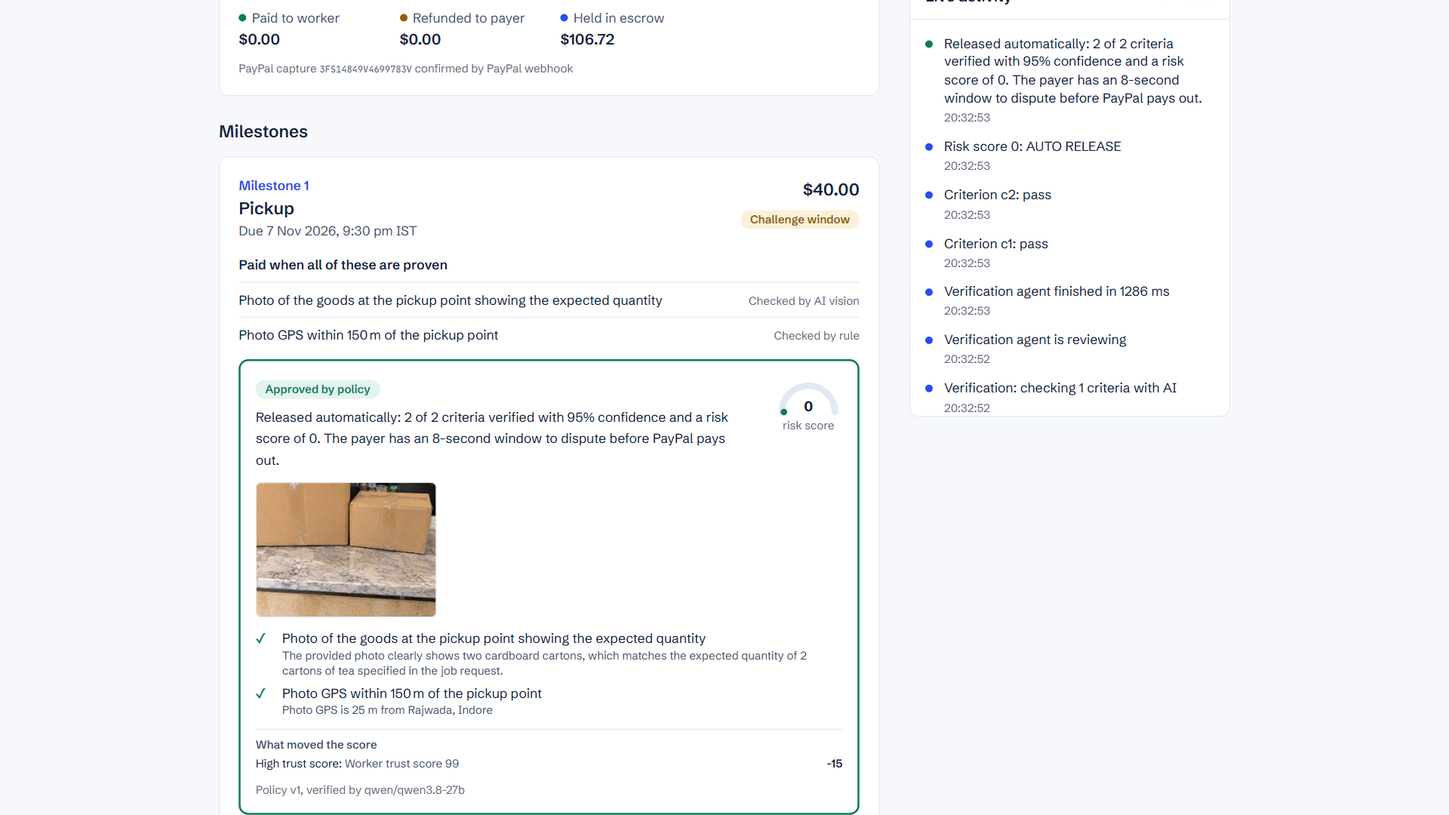
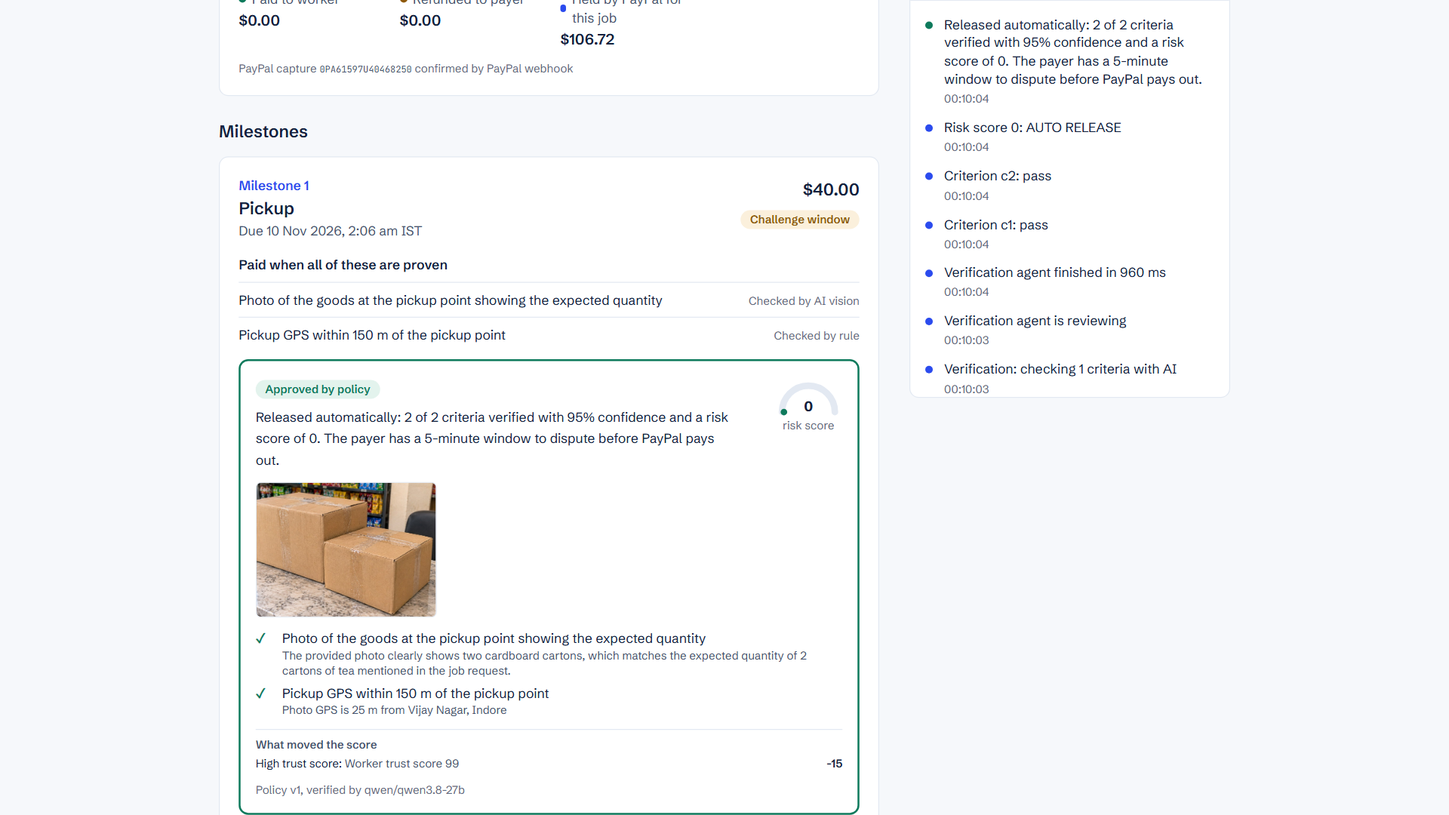
Final judge pass, phases 3-5: live screenshots retaken, video rebuilt at 2:42 (cold open on the denial, four moments with zoom holds, sandbox evidence beat, Kokoro voice), YouTube chapters, checklist and gallery updated; JUDGE_REVIEW_2 (8.1/10); review-queue Decided column widened; opt-in e2e server

diff --git a/playwright.config.ts b/playwright.config.ts
@@ -26,7 +26,7 @@ export default defineConfig({
     command: `pnpm build && pnpm db:template && pnpm build:standalone && cd .next/standalone && node --max-old-space-size=320 --liftoff-only db-boot.cjs boot && node --max-old-space-size=320 --liftoff-only server.js`,
     url: `http://localhost:${PORT}/api/health`,
     timeout: 600_000, // build + template + standalone can exceed 5 minutes on a slow machine
-    reuseExistingServer: false,
+    reuseExistingServer: Boolean(process.env.E2E_REUSE_SERVER), // opt-in: a server started by hand with the same env
     env: {
       APP_MODE: "MOCK",
       PROCUREBOT_API_KEY: process.env.PROCUREBOT_API_KEY ?? randomBytes(24).toString("hex"),

diff --git a/src/app/admin/risk/page.tsx b/src/app/admin/risk/page.tsx
@@ -15,7 +15,7 @@ const COLUMNS: ColumnSpec[] = [
   { field: "amountMinor", header: "Amount", kind: "money", width: 88 },
   { field: "worker", header: "Worker", width: 84 },
   { field: "status", header: "Status", kind: "status", width: 120, tones: { RELEASED: "good", RESOLVED: "good", NEEDS_REVIEW: "warn", HELD: "bad", REJECTED: "bad" } },
-  { field: "at", header: "Decided", kind: "datetime", width: 120 },
+  { field: "at", header: "Decided", kind: "datetime", width: 136 },
   { field: "policyVersion", header: "Policy", kind: "number", width: 85, hide: true },
 ];
 

diff --git a/scripts/edit-video.py b/scripts/edit-video.py
@@ -41,16 +41,17 @@ t = lambda src, k: src[k]["t"]
 vo = {i["id"]: i for i in json.load(open(f"{V}/vo/durations.json"))}
 
 # Beat lengths in seconds: the voiceover plus room to read the key card. Total about 2:43.
-LENGTH = {"cold": 8, "title": 9, "mandate": 13, "denied": 19, "fund": 15, "proof": 16, "fraud": 15, "dispute": 24, "evidence": 13, "receipt": 19, "close": 12}
+LENGTH = {"cold": 8, "title": 9, "mandate": 13, "denied": 16, "fund": 15, "proof": 16, "fraud": 15, "dispute": 26, "evidence": 13, "receipt": 19, "close": 12}
 # Each screen beat: plain segments (start, end, raw file), then a zoom hold on a marked card (marks, name, seconds).
 SCREEN = {
-    "mandate": ([(t(M, "mandates"), t(M, "agent-out-of-scope"), 1)], None),
-    "denied": ([(t(M, "agent-out-of-scope"), t(M, "denied"), 1)], (M, "denied", 7)),
+    "mandate": ([(t(M, "landing") + 2, t(M, "agent-out-of-scope"), 1)], (M, "mandates", 0)),
+    "denied": ([(t(M, "agent-out-of-scope") - 1, t(M, "denied") + 3.5, 1)], (M, "denied", 7)),
     "fund": ([(t(M, "agent-in-scope"), t(M, "agent-allowed") + 2, 1), (t(M, "job-created"), t(M, "fund-clicked") + 1.5, 1), (t(M, "paypal-checkout"), t(M, "paypal-review") + 2, 1), (t(M, "paypal-returned"), t(M, "paypal-returned") + 2, 1), (t(M, "funded") - 1, t(M, "funded") + 3, 1)], None),
     "proof": ([(t(M, "proof-photo") - 1.5, t(M, "submitted") + 2, 1)], (M, "decision-card", 5)),
     "fraud": ([(t(N, "reused-photo") - 2, t(N, "reused-photo") + 1, 2), (t(N, "risk-queue"), t(N, "risk-queue") + 4, 2)], (N, "held", 5)),
-    "dispute": ([(t(M, "dispute-opened") - 4, t(M, "evidence-added") + 1, 1), (t(M, "settled") - 1, t(M, "settled") + 3, 1)], (M, "liability-finding", 6)),
-    "evidence": ([], (M, "evidence", 13)),
+    "dispute": ([(t(M, "dispute-opened") - 4, t(M, "evidence-added") + 1, 1), (t(M, "settled") - 1, t(M, "settled") + 3, 1)], ({"_raw": 1, "lf": {"t": t(M, "settled") - 2.2, "box": {"x": 284, "y": 112, "width": 596, "height": 152}}}, "lf", 6)),  # the finding, scrolled into view, boxed by hand
+    # The permanent showcase receipt (a real sandbox job): its PayPal order, capture and payout ids, boxed by hand.
+    "evidence": ([], ({"ids": {"t": t(N, "showcase") + 2.0, "box": {"x": 384, "y": 240, "width": 768, "height": 156}}}, "ids", 13)),
     "receipt": ([(t(N, "showcase"), t(N, "showcase-verified") + 3, 2), (t(N, "verify-page"), t(N, "tamper-failed"), 2)], (N, "tamper-failed", 6)),
 }
 # In the fraud and dispute beats the zoom hold sits between the plain segments, where it happens on screen.
@@ -76,7 +77,7 @@ def zoom_hold(name, marks, key, seconds, n, overlay=None):
         z1 = max(1.0, min(2.2, W / (bw + 2 * pad), H / (bh + 2 * pad)))
         cx, cy = bx + bw / 2, by + bh / 2
     else:
-        z1, cx, cy = 1.0, W / 2, H / 2
+        z1, cx, cy = 1.12, W / 2, H / 2
     frames = int(seconds * FPS)
     ramp = 1.6 * FPS
     S = 2  # zoompan works on a 2x upscale to avoid jitter
@@ -87,7 +88,7 @@ def zoom_hold(name, marks, key, seconds, n, overlay=None):
     vf = f"scale={W * S}:{H * S},zoompan=z='{z}':x='{x}':y='{y}':d={frames}:s={W}x{H}:fps={FPS}"
     if overlay:
         o = overlay.replace(":", "\\:").replace("'", "\u2019")
-        vf += f",drawbox=x=0:y=ih-230:w=iw:h=150:color={BG}@0.88:t=fill,drawtext=fontfile='{FONTB}':text='{o}':fontcolor=white:fontsize=60:x=(w-text_w)/2:y=h-185"
+        vf += f",drawbox=x=0:y=50:w=iw:h=150:color={BG}@0.9:t=fill,drawtext=fontfile='{FONTB}':text='{o}':fontcolor=white:fontsize=60:x=(w-text_w)/2:y=95"
     p = f"{V}/hold-{name}.mp4"
     run(["-loop", "1", "-i", frame, "-vf", vf, "-frames:v", str(frames), "-c:v", "libx264", "-preset", "veryfast", "-crf", "18", "-pix_fmt", "yuv420p", p])
     return p
@@ -111,14 +112,17 @@ def screen_beat(name, seconds, audio):
     parts = []
     if plain:
         total = sum(dur(p) for p in plain)
-        factor = (seconds - hold_s) / total  # under 1 speeds up waits; over 1 slows gently
-        print(f"{name}: {total:.1f}s of screen fitted to {seconds - hold_s:.1f}s (x{1 / factor:.2f}), hold {hold_s}s")
+        factor = (seconds - hold_s) / total  # under 1 speeds up waits
+        if factor > 1:  # never slow footage down: the spare time goes to the hold on the key card
+            hold_s += seconds - hold_s - total
+            factor = 1.0
+        print(f"{name}: {total:.1f}s of screen at x{1 / factor:.2f}, hold {hold_s:.1f}s")
         for i, p in enumerate(plain):
             sped = f"{V}/sped-{name}-{i}.mp4"
             run(["-i", p, "-vf", f"setpts={factor:.4f}*PTS,fps={FPS}", "-an", "-c:v", "libx264", "-preset", "veryfast", "-crf", "18", "-pix_fmt", "yuv420p", sped])
             parts.append(sped)
     if hold:
-        h = zoom_hold(name, hold[0], hold[1], hold_s, 1 if hold[0] is M else 2)
+        h = zoom_hold(name, hold[0], hold[1], hold_s, 1 if (hold[0] is M or hold[0].get("_raw") == 1) else 2)
         parts.insert(HOLD_AT.get(name, len(parts)), h)
     return with_audio(name, concat(name, parts), seconds, audio)
 
@@ -143,6 +147,10 @@ def card(name, lines, seconds, audio):
 beats, srt, clock = [], [], 0.0
 def add(path, seconds, caption):
     global clock
+    if caption is None:  # the beat shows its words on screen already
+        beats.append(path)
+        clock += seconds
+        return
     words = caption.split()
     chunks, cur = [], []
     for w in words:
@@ -171,7 +179,7 @@ for name in ORDER:
     audio = f"{V}/vo/{name}.wav"
     if name == "cold":
         h = zoom_hold("cold", M, "denied", seconds, 1, overlay="When an AI agent spends money, who is accountable?")
-        add(with_audio("cold", h, seconds, audio), seconds, item["text"])
+        add(with_audio("cold", h, seconds, audio), seconds, None)
     elif name == "title":
         add(card("title", [("SettleAI", 120, True, WHITE), ("", 0, False, WHITE), ("Agents will hire people.", 58, False, WHITE), ("SettleAI makes sure the work was done before PayPal pays.", 46, False, SOFT)], seconds, audio), seconds, item["text"])
     elif name == "close":

diff --git a/docs/video/SCRIPT.md b/docs/video/SCRIPT.md
@@ -1,6 +1,6 @@
 # Demo video script
 
-Final cut: `docs/video/settleai-demo.mp4`, about 2:43. Built by `scripts/record-demo.mjs` (live site, 1920x1080, real PayPal
+Final cut: `docs/video/settleai-demo.mp4`, 2:42 (162.0 s by ffprobe). Built by `scripts/record-demo.mjs` (live site, 1920x1080, real PayPal
 sandbox and real models), `scripts/tts-voiceover.py` (voice), `scripts/edit-video.py` (cuts, zooms, cards) and
 `scripts/burn-captions.py` (captions, length check, thumbnail). English, no music, burned-in captions. The only third-party
 screens are the PayPal sandbox checkout (the sponsor).
@@ -18,14 +18,14 @@ card and is not spoken.
 | 0:00 | Cold open (8 s) | Zoom onto the red "Denied before any money moved" card; caption bar: "When an AI agent spends money, who is accountable?" | When an AI agent spends money, who is accountable? |
 | 0:08 | Title (9 s) | Card: SettleAI. Agents will hire people. SettleAI makes sure the work was done before PayPal pays. | This is SettleAI. It makes sure the work was done before PayPal pays, and it says who is liable when it wasn't. |
 | 0:17 | Setup (13 s) | Payer's Agent mandates page: the signed ProcureBot mandate and its budget; PayPal sandbox badge in view | Ravi runs a small shop. His AI agent can hire couriers for him, but only within limits he signs: delivery jobs, up to a hundred and fifty dollars each. |
-| 0:30 | **Moment 1** (19 s) | Out of scope, Send as agent; zoom hold on the denial card with its reason codes; nothing created | Now the agent tries to book a five hundred dollar repair job. That's outside the limits. The check is plain code, not a prompt. It says no, and why, before any money moves. |
-| 0:49 | Fund (15 s) | In-scope hire, Fund with PayPal, sandbox checkout, back to the job: funded, held by PayPal for this job | Inside the limits, the agent books a delivery. Ravi pays through PayPal checkout, in the sandbox. PayPal holds the money for this job until the work is proven. |
-| 1:04 | Proof (16 s) | Worker submits a demo image; live checks; zoom hold on the Decision Card (approved by policy, model named) | The courier sends a photo. Simple rules check the place, the time, and whether the photo was used before. Then an AI model checks each requirement, and the payment is approved. |
-| 1:20 | **Moment 2** (15 s) | Second job, the same photo reused; zoom hold on the held decision ("already submitted for another job"); the AG Grid review queue | On a second job, someone sends the same photo again. It's caught. Nothing is paid, and the job waits for a person in the review queue. |
-| 1:35 | **Moment 3** (24 s) | First job: payer disputes in the 10-minute window and adds a damage image; zoom hold on the liability finding with its plain-English clause; settled through PayPal | Back on the first job, Ravi says one carton arrived damaged. An AI arbiter weighs both sides and writes a liability finding. It cites the exact clause Ravi signed. Both sides accept, and PayPal pays out and refunds. |
-| 1:59 | Sandbox evidence (13 s) | Zoom hold on the job's public receipt: PayPal order, capture, payout and refund ids (masked) | These are real PayPal sandbox transactions. The capture, the payout, and the refund, each with its own PayPal ID. |
-| 2:12 | **Moment 4** (19 s) | Showcase receipt verifies in the browser; /verify with a one-character change; zoom hold on "Receipt failed verification" and the broken link | Every step is signed into a receipt. Anyone can check it in the browser, without trusting us. Change a single character, and the check fails, and shows what was changed. |
-| 2:31 | End card (12 s) | SettleAI; Try it: settleai-07ue.onrender.com; Code: github.com/Mokshitsharma/settleai; Built for the PayPal AI Hackathon 2026; one small line: sandbox, AP2-inspired (not official or endorsed), AI-generated demo images | AI agents are about to spend real money. SettleAI makes them accountable. Try it yourself at the link on screen. |
+| 0:30 | **Moment 1** (16 s) | Out of scope, Send as agent; zoom hold on the denial card with its reason codes; nothing created | Now the agent tries to book a five hundred dollar repair job. That's outside the limits. The check is plain code, not a prompt. It says no, and why, before any money moves. |
+| 0:46 | Fund (15 s) | In-scope hire, Fund with PayPal, sandbox checkout, back to the job: funded, held by PayPal for this job | Inside the limits, the agent books a delivery. Ravi pays through PayPal checkout, in the sandbox. PayPal holds the money for this job until the work is proven. |
+| 1:01 | Proof (16 s) | Worker submits a demo image; live checks; zoom hold on the Decision Card (approved by policy, model named) | The courier sends a photo. Simple rules check the place, the time, and whether the photo was used before. Then an AI model checks each requirement, and the payment is approved. |
+| 1:17 | **Moment 2** (15 s) | Second job, the same photo reused; zoom hold on the held decision ("already submitted for another job"); the AG Grid review queue | On a second job, someone sends the same photo again. It's caught. Nothing is paid, and the job waits for a person in the review queue. |
+| 1:32 | **Moment 3** (26 s) | First job: payer disputes in the 10-minute window and adds a damage image; zoom hold on the liability finding with its plain-English clause; settled through PayPal | Back on the first job, Ravi says one carton arrived damaged. An AI arbiter weighs both sides and writes a liability finding. It cites the exact clause Ravi signed. Both sides accept, and PayPal settles it. |
+| 1:58 | Sandbox evidence (13 s) | Zoom hold on the permanent showcase receipt (a real sandbox job): PayPal order, capture and two payout ids (masked) | This is a real job on the PayPal sandbox. The order, the capture, and both payouts, each with its own PayPal ID. |
+| 2:11 | **Moment 4** (19 s) | Showcase receipt verifies in the browser; /verify with a one-character change; zoom hold on "Receipt failed verification" and the broken link | Every step is signed into a receipt. Anyone can check it in the browser, without trusting us. Change a single character, and the check fails, and shows what was changed. |
+| 2:30 | End card (12 s) | SettleAI; Try it: settleai-07ue.onrender.com; Code: github.com/Mokshitsharma/settleai; Built for the PayPal AI Hackathon 2026; one small line: sandbox, AP2-inspired (not official or endorsed), AI-generated demo images | AI agents are about to spend real money. SettleAI makes them accountable. Try it yourself at the link on screen. |
 
 The liability beat never promises a particular split: the Arbiter proposes one, code checks that it adds up, and both sides
 accept or an admin decides.

diff --git a/docs/JUDGE_REVIEW_2.md b/docs/JUDGE_REVIEW_2.md
@@ -1,0 +1,69 @@
+# SettleAI: mock judge review, round 2
+
+Reviewer role: the same strict PayPal AI Hackathon 2026 judge as in `JUDGE_REVIEW.md`, skimming for 5 to 10 minutes.
+Date: 10 Nov 2026. Compared with round 1 (7 Nov, 7.6 / 10).
+
+**What I looked at:** the live site after the 10 Nov deploy (Playwright at 1920x1080: landing, agent denial, a full funded
+job on the PayPal sandbox with real models, a dispute inside the 10-minute window, the reused-photo hold, every AG Grid
+view, the showcase receipt and a tampered receipt), the rebuilt video (contact sheets every 3 s), README, DEVPOST.md,
+the five Devpost images and the impact pack.
+
+## Overall: 8.1 / 10 (was 7.6)
+
+The packaging now matches the engineering. The video opens on the denial and gives each moment time to land. The Devpost
+page no longer contradicts itself. The AG Grid screens look like a deliberate use of the product. What still costs points:
+a synthetic voice, a dispute path that takes a judge about four minutes and a PayPal sandbox login, and an ops console that
+is denser than a consumer demo.
+
+## Round 1 items
+
+| # | Round 1 item | Now |
+|---|---|---|
+| 1 | Devpost "real photos" contradiction | Fixed: Challenges says the model flagged early generated images, we used more realistic AI-generated ones, disclosed them, and kept rule checks as ground truth. No conflicting claim in README, Devpost, UI, code comments or video |
+| 2 | Broken AG Grid columns | Fixed and deployed: every grid measured, no collapsed or clipped columns; `Decided` widened again for a 2-digit hour; Devpost lists the AG Grid features used |
+| 3 | 75 s cold start | Fixed for judging: an external ping every 10 minutes through 16 Dec; README and Devpost say so |
+| 4 | Unreachable dispute window | Fixed: 10-minute window on live; landing card 3, README and Devpost walk the judge through it, including the one-minute wait the fast-proof rule needs |
+| 5 | Rushed video, disclaimer ending | Fixed: 2:42, cold open on the denial card, 4 moments held 5 to 13 s with zooms, one sandbox-evidence beat, ends on the product and URLs; disclaimer is one small line |
+| 6 | Flat TTS voice | Improved: Kokoro-82M replaces Piper LJ Speech; still synthetic (script in `voiceover.txt` for a human re-record) |
+| 7 | No quantified impact | Fixed: three cited figures and a named first user; interview placeholders removed |
+| 8 | Jargon on screen | Fixed: plain-English clause first, raw clause under Details; "shared by both sides"; "(1 check)"; model ids in a tooltip; "Held by PayPal for this job" |
+| 9 | README top | Fixed: one-liner, hero image, "Try it in 60 seconds", one evidence table, the n = 2 injection figure in a footnote |
+| 10 | Agent Toolkit gap | Fixed: "Why the agent never holds the PayPal write tools", with the Agent Toolkit for Invoicing named as next |
+| 11 | Screenshot 2 crop | Fixed: request plus the full denial card, no expired mandate |
+
+## Criteria scores
+
+| Criterion | Round 1 | Round 2 | One-line reason |
+|---|---|---|---|
+| Technological Implementation | 9 | **9** | Unchanged and still the strongest part: real Orders, Payouts, webhooks, ledger, guard at four gates, verifiable receipts, MCP, 500+ tests |
+| Design | 7 | **8** | Grid, liability card and wording are clean; the admin console is still dense, and the ledger's internal account is still called "Escrow" |
+| Potential Impact | 6.5 | **7** | Cited numbers and a named first user; no user interviews or pilot, which the pack now says plainly |
+| Innovation | 8 | **8** | Unchanged: conditional settlement plus liability findings that cite a signed clause |
+| Presentation | 6.5 | **8** | The video is now paced for a skimming judge and starts on the wow; the voice is still synthetic |
+
+## Prize fit
+
+| Prize | Round 1 | Round 2 | Why |
+|---|---|---|---|
+| Best Use of Agentic Commerce | 8.5 | **9** | The cold open is exactly this prize's question, answered in code |
+| Best Use of PayPal + AI | 7.5 | **8** | The write-tools rationale turns the missing Agent Toolkit into a design choice |
+| Most Impactful | 6 | **7** | Quantified, but no real users yet |
+| Most Creative | 6.5 | **7** | The receipt tamper moment and the cited liability finding are memorable |
+| Best Demo Delivery | 5.5 | **7.5** | Warm server, reachable dispute, a 2:42 cut; the synthetic voice and the long dispute path hold it back |
+| AG Grid (sponsor, the one we enter) | 5 | **7.5** | A clean, filterable review queue and ledger in the hero images, with the features listed |
+
+## Remaining risks
+
+1. **The dispute path is long for a judge:** fund in the sandbox (needs the buyer login from the private testing field),
+   accept, wait a minute, submit, then dispute. Judges who skip it still see the finding in the video and on the showcase
+   receipt.
+2. **Live dependencies during 1 to 15 Dec:** the Groq free tier (rate limits fall back to human review, which is safe but
+   less impressive), the Render free plan's 512 MB, and the cron ping. Check health weekly.
+3. **Synthetic voice** may still cost a little on Best Demo Delivery; a human re-record from `voiceover.txt` is the only
+   remaining video upgrade.
+4. **Two "escrow" words remain on purpose:** the ledger's internal account name and the Guard's denial messages ("Funds stay
+   in escrow"), left because the Guard was out of scope for this pass. Devpost explains the ledgered hold.
+5. **Submission mechanics:** the repo must be public, the video public on YouTube, and only the AG Grid sponsor prize
+   selected. Run gitleaks before making the repo public.
+6. **Screenshot 5** was taken before the `Decided` width fix (the "am" of one row clips by a few pixels); retake it after
+   the next deploy.

diff --git a/docs/video/CHECKLIST.md b/docs/video/CHECKLIST.md
@@ -1,26 +1,21 @@
 # Video checklist
 
-Checked on 7 Nov 2026 against `docs/video/settleai-demo.mp4`.
+Checked on 10 Nov 2026 against `docs/video/settleai-demo.mp4` (contact sheets every 3 s, plus key frames).
 
 | Rule | Result |
 |---|---|
-| Strictly under 3:00 (target under 2:50) | 2:11.5 by ffprobe (131.53 s); the editor fails the build at 2:58 or more |
-| Format | H.264, 1920x1080, 30 fps, AAC audio |
-| English throughout | Yes: voiceover, captions, cards |
-| Burned-in captions | Yes (drawtext); `captions.srt` also provided for upload |
-| No music | None; see `LICENSES.md` |
-| Title card and end card | Title: "SettleAI / Agents will hire people. Who answers for it?" End: live URL, repo URL, "Built for the PayPal AI Hackathon 2026" |
-| No third-party logos or trademarks | Frames checked every 3 s: only SettleAI and the PayPal sandbox checkout (sponsor); demo images have no logos, QR codes or readable brands |
-| No secrets or env files | No terminal, `.env.local`, keys or tokens on screen |
-| No real personal data | Seeded demo names (Ravi Traders, Asha K., Meera) and sandbox accounts only; the sandbox checkout greets its test buyer as "John" |
-| Recorded against the live site, LIVE badge visible | Yes: "PayPal sandbox" badge and model names in the header |
-| Real PayPal sandbox evidence | Real order, capture and payout; capture confirmed by PayPal webhook; settlement through PayPal |
-| Real AI output, not the stub | Decision Card "verified by qwen/qwen3.8-27b"; Arbiter proposal and liability finding from the real model |
-| Moment 1 | Out-of-mandate request denied with reason codes, nothing created |
-| Moment 2 | The first job's photo reused on a second job, held for a person, shown in the AG Grid review queue |
-| Moment 3 | Liability finding that cites the Payment Mandate clause, with criteria and evidence |
-| Moment 4 | Showcase receipt verifies in the browser; a one-byte change fails with a pointer |
-| Stable link shown | `/receipt/showcase` |
-| Waits | Real waits (2-minute proof wait, PayPal and model latency) trimmed or sped up; nothing altered |
-| Thumbnail | `thumbnail.png`, 1280x720, SettleAI name over a dispute frame, no third-party logos |
-| Frame fill | Fixed before upload: the recorder placed the page in the top-left of the 1920x1080 frame; the editor now crops and scales it to fill (re-checked on a contact sheet) |
+| Strictly under 3:00 (target 2:40 to 2:50) | 2:42 by ffprobe (162.03 s); `burn-captions.py` fails the build at 2:55 or more |
+| Format | H.264 (libx264, preset veryfast), 1920x1080, 30 fps, AAC audio |
+| Opening | 0:00 to 0:08 on the red "Denied before any money moved" card, with "When an AI agent spends money, who is accountable?" |
+| Four moments, each held on its key card with a slow zoom | Denial with reason codes; reused photo held; liability finding citing the mandate (plain-English clause); tampered receipt fails |
+| Real PayPal sandbox evidence | Funded through the sandbox checkout, capture confirmed by webhook; showcase receipt shows real order, capture and payout ids (masked) |
+| Real AI output, not the stub | Decision Card from the real vision model; Arbiter proposal and liability finding from the real model |
+| No promised split | The voiceover says "a liability finding"; this run's Arbiter paid the worker in full (claim not supported) |
+| End | Product end card: live URL, repo URL, "Built for the PayPal AI Hackathon 2026"; disclaimer as one small line, not spoken |
+| English, burned-in captions | Yes; `captions.srt` also provided for upload |
+| Voice | Kokoro-82M (Apache-2.0), voice `af_heart`; `voiceover.txt` for a human re-record; see `LICENSES.md` |
+| No music | None |
+| No third-party logos | Only SettleAI and the PayPal sandbox checkout (sponsor) |
+| No secrets or personal data | No terminal, env files or keys on screen; seeded demo names and sandbox accounts only |
+| Waits | Real waits trimmed or sped up (funding x1.9); zooms enlarge real frames; nothing altered |
+| Thumbnail | `thumbnail.png`, 1280x720: the liability finding with "SettleAI / When an AI agent spends, who is liable?" |

diff --git a/docs/STATUS.md b/docs/STATUS.md
@@ -125,7 +125,8 @@ Phase plan: docs/SPEC.md §19. Feature freeze 8 Nov 2026; submit by 11 Nov 2026.
 - Decision (Guard): `guard.ts` denial messages still say "Funds stay in escrow" because the Guard is out of scope for this pass; every other UI string says the money is held by PayPal for the job. The admin KPI is "Funded through PayPal, all time" (e2e locator text updated to match, same assertion).
 - Impact pack: interview section and guide removed (no interviews were run); NYC figure stated as "nearly three in four" because the source gives both 73% and 74%.
 - Video: new 11-beat script (cold open on the denial, four moments with zoom holds, sandbox evidence beat, end on product); Kokoro-82M (Apache-2.0) voice replaces Piper LJ Speech; `voiceover.txt` exported.
-- Keep-warm: needs an external ping every 10 minutes (cron-job.org) through 15 Dec; the owner sets it up (no browser access from this session).
+- Keep-warm: cron-job.org pings /api/health every 10 minutes until 16 Dec (set up by the owner, confirmed 10 Nov).
+- Phases 3-5 (10 Nov): live recording (real sandbox and models), five screenshots retaken (2 and 4 centred on 1920x1080), video rebuilt at 2:42 with Kokoro voice, contact sheets reviewed; evidence beat uses the showcase receipt because a fresh job's payout was not yet confirmed when filmed. Re-judged in docs/JUDGE_REVIEW_2.md: 8.1/10 (was 7.6).
 
 ## Track sections
 - A. Payments and ledger: done in MOCK; next a LIVE sandbox run of the PayPal adapter and JS SDK v6 buttons (needs credentials).

diff --git a/docs/DEVPOST.md b/docs/DEVPOST.md
@@ -90,11 +90,11 @@ PayPal Invoicing through the Agent Toolkit, a Concierge agent, document delivera
 
 ## Gallery (docs/devpost/, 1920x1080, from the live site)
 
-1. `1-landing.png`: landing page with the PayPal sandbox badge and the four things to try
-2. `2-denied-before-money-moves.png`: an out-of-mandate agent request denied with reason codes
+1. `1-landing.png`: landing page with the PayPal sandbox badge, the signed mandate and the four things to try
+2. `2-denied-before-money-moves.png`: an AI agent asks for a $500 gift-card and repair job; the Mandate Guard denies it with reason codes before any money moves
 3. `3-decision-card-real-model.png`: Decision Card with the real vision model's verdict and a webhook-confirmed capture
-4. `4-liability-finding-cites-mandate.png`: Arbiter proposal and the liability finding citing the Payment Mandate, settled through PayPal
-5. `5-ag-grid-risk-queue.png`: AG Grid review queue with the reused photo held
+4. `4-liability-finding-cites-mandate.png`: the Arbiter's proposal and a liability finding whose plain-English clause cites the signed Payment Mandate
+5. `5-ag-grid-risk-queue.png`: AG Grid review queue: the reused photo held and waiting for a person, with filters, quick search and CSV export
 
 Video: under 3 minutes on YouTube (link added at upload). Thumbnail and captions in `docs/video/`.
 

diff --git a/docs/video/YOUTUBE.md b/docs/video/YOUTUBE.md
@@ -19,13 +19,13 @@ Code: https://github.com/Mokshitsharma/settleai
 0:00 Who is accountable when an agent spends?
 0:17 A signed mandate for an AI agent
 0:30 Out-of-mandate request denied before money moves
-0:49 Funded through PayPal sandbox checkout
-1:04 Proof checked by rules and an AI model
-1:20 A reused photo is caught and held
-1:35 A liability finding that cites the mandate
-1:59 Real PayPal sandbox capture, payout and refund
-2:12 A receipt verifies; a one-character change fails
-2:31 Try it
+0:46 Funded through PayPal sandbox checkout
+1:01 Proof checked by rules and an AI model
+1:17 A reused photo is caught and held
+1:32 A liability finding that cites the mandate
+1:58 Real PayPal sandbox order, capture and payouts
+2:11 A receipt verifies; a one-character change fails
+2:30 Try it
 
 PayPal sandbox with test money. Funds are captured to the platform account and released by Payouts (PayPal has no native
 escrow here). Mandates are AP2-inspired: not official AP2, and not endorsed by PayPal or Google. Demo images are
